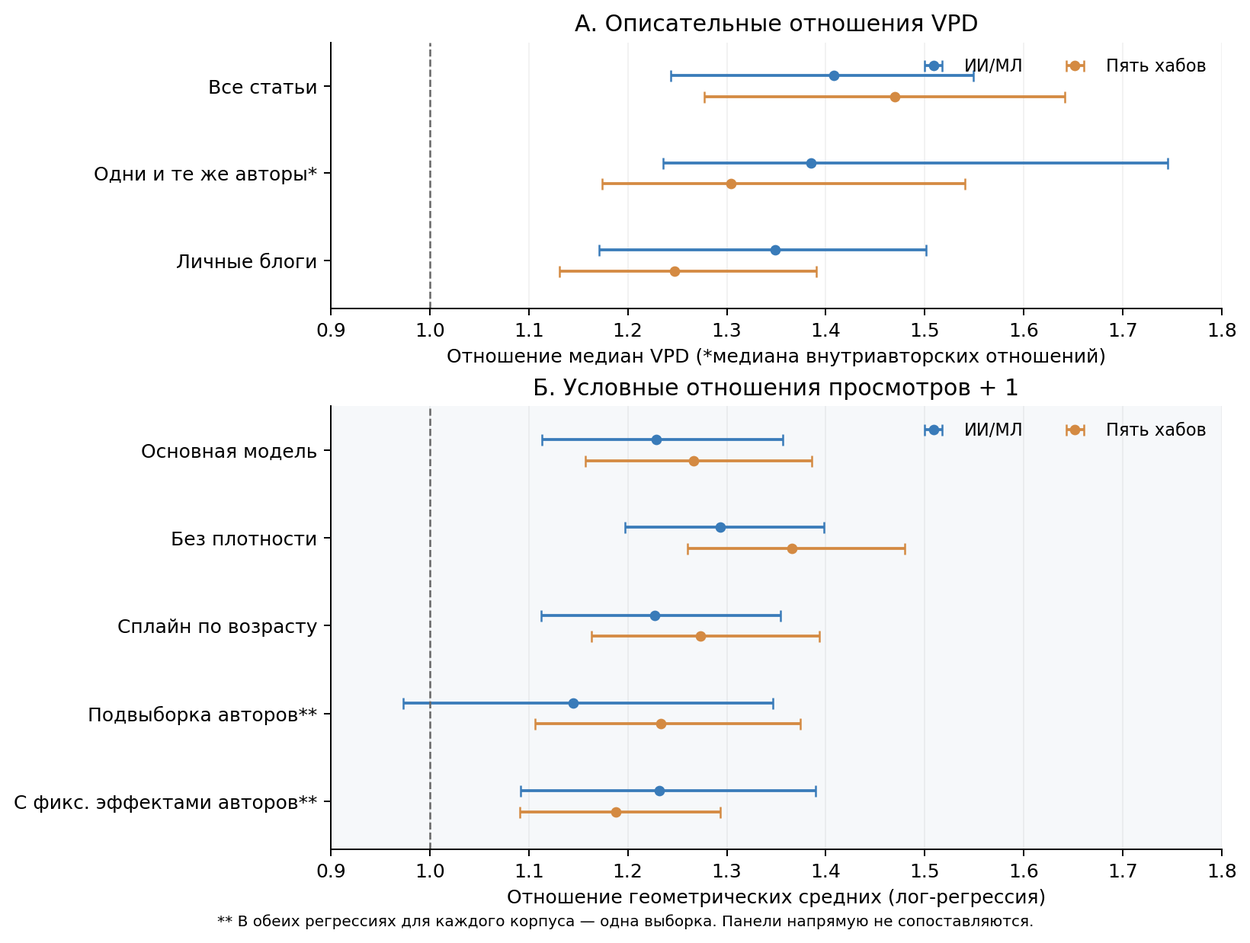
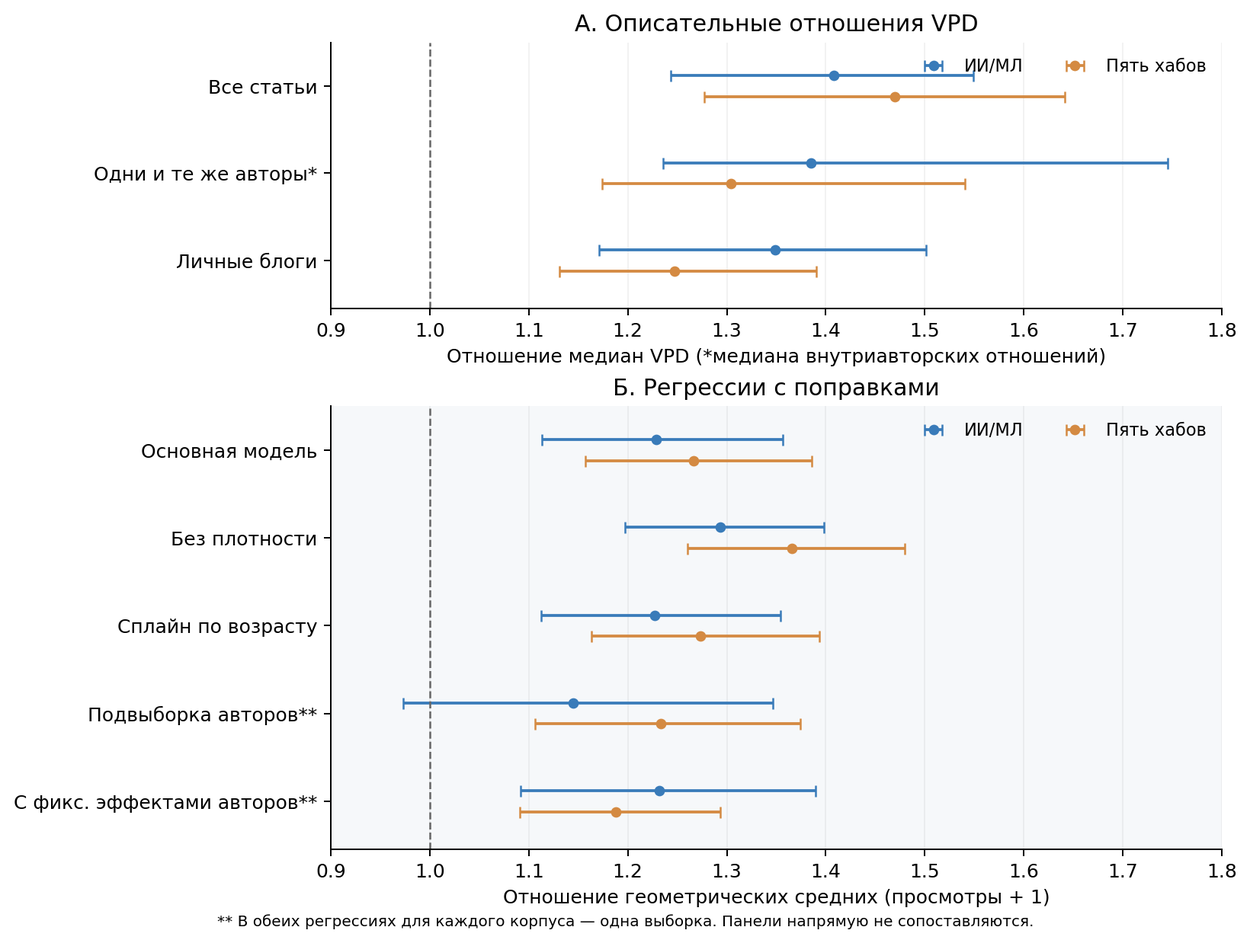
Prepare v1.1.0 publication release with verified illustrations

Changed region(s): [[0.4043, 0.9208, 0.8396, 0.9822], [0.4354, 0.399, 0.7774, 0.4297]]

diff --git a/short_article/article.md b/short_article/article.md
@@ -14,7 +14,7 @@
 
 **TL;DR:** выходные статьи в наших данных набирали больше просмотров. Медиана среднедневных просмотров за время жизни статьи (VPD) выше в 1.4–1.5 раза, оценки отношения просмотров в регрессиях с поправками — около 1.2–1.3. Преимущество сохраняется и при сравнении статей одного автора, хотя примерно 39% выходных статей не превосходят типичную будничную по VPD. По праздникам наблюдается похожая связь. Результативность авторов различается в разы, связь простоты текста с просмотрами слабая. Модели прогноза найти «идеальный час» не помогли.
 
-**Это наблюдения, а не эксперимент.** Если опубликованные в субботу статьи набирали больше просмотров, это ещё не означает, что ваша статья выиграет от переноса со среды на субботу. Полная методология, результаты и код лежат в [репозитории исследования](https://github.com/vadimkaa/habr_analytics/tree/main). Здесь — только самое интересное.
+**Это наблюдения, а не эксперимент.** Если опубликованные в субботу статьи набирали больше просмотров, это ещё не означает, что ваша статья выиграет от переноса со среды на субботу. Полная методология, результаты и код лежат в [репозитории исследования](https://github.com/vadimkaa/habr_analytics/tree/v1.1.0). Здесь — только самое интересное.
 
 ## 1. Сверим часы
 
@@ -32,7 +32,7 @@
 
 VPD здесь лишь описательная метрика. Поэтому я проверял выводы и иначе: сравнивал статьи близкого возраста, их места по просмотрам среди публикаций того же месяца, строил регрессии. Просмотры за одинаковый срок эти методы не заменяют.
 
-Выходными считал субботы и воскресенья, кроме рабочих суббот по производственному календарю. Нерабочие будни анализировал отдельно в разделе о праздниках. Время публикации брал из временных меток в метаданных Хабра; для календарных группировок выбрал московский часовой пояс (да простят меня читатели из Владивостока). Заголовки, хабы и счётчики сняты на момент сбора данных; удалённые и снятые с публикации статьи в выборку не попали, что могло привести к смещению (ошибке выжившего).
+Выходными считал субботы и воскресенья, кроме рабочих суббот по производственному календарю. Праздничные будни входят в будни основного сравнения; отдельно их рассмотрю в разделе 6. Время публикации брал из временных меток в метаданных Хабра; для календарных группировок выбрал московский часовой пояс (да простят меня читатели из Владивостока). Заголовки, хабы и счётчики сняты на момент сбора данных; удалённые и снятые с публикации статьи в выборку не попали, что могло привести к смещению (ошибке выжившего).
 
 ## 2. Суббота наносит ответный удар
 
@@ -88,13 +88,13 @@ VPD здесь лишь описательная метрика. Поэтому 
 
 Ещё одна проверка — регрессия с фиксированными эффектами авторов (в ней постоянные различия между авторами учтены). Для неё взял 2586 статей 360 авторов ИИ/МЛ и 8963 статьи 657 авторов пяти хабов, публиковавшихся и в будни, и в выходные. Учёл также возраст и месяц публикации, хабы, тип блога и плотность публикаций. Оценки отношения просмотров выходных к будням составили 1.23 и 1.19 (ДИ [1.09; 1.39] и [1.09; 1.29] соответственно).
 
-На рисунке 4 собраны результаты разных проверок. Все точечные оценки выше единицы. Любопытно, что в ИИ/МЛ на одной и той же подвыборке учёт фиксированных эффектов авторов повышает оценку с 1.14 (ДИ включает единицу) до 1.23: на этой подвыборке учёт постоянных различий между авторами не уменьшает, а увеличивает оценку. Подробности расчётов — в [полной версии](https://github.com/vadimkaa/habr_analytics/blob/main/article.md#6-выходные-часы-и-автор).
+На рисунке 4 собраны результаты разных проверок. Все точечные оценки выше единицы. Любопытно, что в ИИ/МЛ на одной и той же подвыборке учёт фиксированных эффектов авторов повышает оценку с 1.14 (ДИ включает единицу) до 1.23: постоянные различия между авторами не обязательно завышают оценку календарной связи. Подробности расчётов — в [полной версии](https://github.com/vadimkaa/habr_analytics/blob/v1.1.0/article.md#6-выходные-часы-и-автор).
 
 <img src="../figs/13_weekend_robustness.png" alt="Оценки отношения выходных к будням: описательные сравнения VPD и лог-регрессии с 95% доверительными интервалами." width="100%" />
 
-*Рисунок 4. Проверки устойчивости преимущества выходных. Верхняя и нижняя панели показывают разные статистические показатели; напрямую сопоставлять величины оценок между панелями нельзя. Усы — 95% ДИ с учётом группировки по авторам. В нижних двух строках для каждого корпуса использована одна подвыборка авторов.*
+*Рисунок 4. Проверки устойчивости преимущества выходных. Верхняя и нижняя панели показывают разные статистические показатели; напрямую сопоставлять величины оценок между панелями нельзя. Усы — 95% ДИ с учётом группировки по авторам. В нижних двух строках для каждого корпуса использована одна подвыборка авторов. Сплайн — гибкая поправка на возраст.*
 
-А вот разница между личными и корпоративными блогами оказалась интересной. В пяти хабах после поправок оценка отношения выходных к будням составляет 1.69 (ДИ [1.32; 2.15]) для корпоративных и 1.17 для личных публикаций; различие статистически значимо. При этом корпоративных статей в выходные примерно вчетверо меньше в расчёте на день (528 против 5390 за весь период). В ИИ/МЛ убедительного различия между типами блогов нет.
+А вот разница между личными и корпоративными блогами оказалась интересной. В пяти хабах после поправок оценка отношения выходных к будням составляет 1.69 (ДИ [1.32; 2.15]) для корпоративных и 1.17 для личных публикаций; различие статистически значимо. При этом корпоративных статей в выходные примерно вчетверо меньше в расчёте на день (528 против 5390 за весь период). В ИИ/МЛ убедительного различия между типами блогов нет. Корпоративные публикации выходных могут отличаться по содержанию.
 
 ## 5. Чеширская корреляция
 
@@ -132,7 +132,7 @@ VPD здесь лишь описательная метрика. Поэтому 
 
 Основная оценка — по перцентилям относительно статей, вышедших в пределах семи дней до и после каждой публикации, при тех же контрольных датах. Медианный перцентиль праздничных статей выше контрольных на 8.2 процентного пункта (п.п.) в ИИ/МЛ и 11.7 п.п. в пяти хабах (95% ДИ [4.5; 11.5] и [7.4; 16.2] по эпизодам и контрольным неделям).
 
-При изменении ширины окна от ±3 до ±14 дней разница составляет 5.1–11.0 п.п. в ИИ/МЛ и 10.5–13.2 п.п. в пяти хабах. В узком окне месячная оценка на тех же статьях — 10.5 и 14.4 п.п. Разница зависит не только от состава выборки, но и от метрики; знак сохраняется.
+При изменении ширины окна от ±3 до ±14 дней разница составляет 5.1–11.0 п.п. в ИИ/МЛ и 10.5–13.2 п.п. в пяти хабах. В окне ±3 дня месячная оценка на тех же статьях — 10.5 и 14.4 п.п. Разница зависит не только от состава выборки, но и от метрики; знак сохраняется.
 
 Сравнение по месячным перцентилям охватывает 68 праздничных эпизодов в ИИ/МЛ и всего 7 в пяти хабах: общее окно наблюдений начинается 24 июня 2025 года (в «Информационной безопасности» история короче, вероятно, из-за лимита в 420 страниц). В окне ±7 дней остаются 62 и 7 эпизодов соответственно. Контрольные даты могут относиться к нескольким эпизодам; семь эпизодов ограничивают надёжность ДИ пяти хабов. В праздничные дни статей выходит почти вдвое меньше; доля корпоративных публикаций тоже ниже.
 
@@ -150,7 +150,7 @@ VPD здесь лишь описательная метрика. Поэтому 
 
 Для индексов читаемости из HTML удалялись код, таблицы и формулы; затем считались слова и предложения. Доля кода измерялась отдельно до очистки (по объёму блоков ``<pre>`` относительно исходного текста). Подготовка неидеальна: формулы бывают картинками, а технические термины плохо подходят для подсчёта русских слогов.
 
-Я проверил несколько индексов читаемости на основе длины слов и предложений ([формулы лежат в полной версии](https://github.com/vadimkaa/habr_analytics/blob/main/article.md#8-читаемость-текста)), и они похожи, хотя близкие результаты не означают независимых подтверждений. Просто одна линейка, нарисованная несколькими способами. На рисунке 6 оставил один из индексов.
+Я проверил несколько индексов читаемости на основе длины слов и предложений ([формулы лежат в полной версии](https://github.com/vadimkaa/habr_analytics/blob/v1.1.0/article.md#8-читаемость-текста)), и они похожи, хотя близкие результаты не означают независимых подтверждений. Просто одна линейка, нарисованная несколькими способами. На рисунке 6 оставил один из индексов.
 
 <img src="figures/readability.png" alt="Корреляции формальных характеристик текста с VPD" width="100%" />
 
@@ -160,7 +160,7 @@ VPD здесь лишь описательная метрика. Поэтому 
 
 Самое любопытное — длина предложений почти ни при чём. ДИ её корреляции с VPD включает ноль. Зато доля слов длиной не меньше 10 букв среди русских слов связана с VPD заметнее (−0.24, после поправок −0.20). Чем больше таких слов, тем в среднем ниже VPD. Но длинные слова нередко означают сложную тему, а содержание и его качество я здесь не измерял.
 
-Внутри каждого из семи хабов, из которых собраны корпуса, связь с долей длинных слов тоже отрицательная. При сравнении статей одного автора внутри корпуса корреляции с поправками слабее: 0.17 для ИУФО и −0.15 для доли длинных слов (713 статей, 139 авторов). Для ИУФО в ИИ/МЛ связь почти исчезает (0.06; всего 94 статьи 36 авторов), в пяти хабах сохраняется (0.19). При равном весе авторов обе оценки ещё ближе к нулю, а ДИ включают ноль. Скорректированные корреляции приведены без ДИ; поправка на множественные сравнения описана в [полной версии](https://github.com/vadimkaa/habr_analytics/blob/main/article.md#8-читаемость-текста).
+Внутри каждого из семи хабов, из которых собраны корпуса, связь с долей длинных слов тоже отрицательная. При сравнении статей одного автора внутри корпуса корреляции с поправками слабее: 0.17 для ИУФО и −0.15 для доли длинных слов (713 статей, 139 авторов). Для ИУФО в ИИ/МЛ связь почти исчезает (0.06; всего 94 статьи 36 авторов), в пяти хабах сохраняется (0.19). При равном весе авторов обе оценки ещё ближе к нулю, а ДИ включают ноль. Скорректированные корреляции приведены без ДИ; поправка на множественные сравнения описана в [полной версии](https://github.com/vadimkaa/habr_analytics/blob/v1.1.0/article.md#8-читаемость-текста).
 
 Некрасов советовал писать так, чтобы словам было тесно, а мыслям — просторно. Если понимать это как призыв к употреблению слов покороче (хотя поэт имел в виду другое), то Хабр, судя по этим данным, скорее с ним согласен. Правда, не стоит впадать в крайности и механически заменять, например, «гиперпараметры» на «настройки». Длинное слово может быть точным техническим термином. А короткие предложения не гарантируют ясности. Я сравнивал разные статьи, а не одну и ту же до и после редактуры, поэтому утверждать, что сокращение слов принесёт просмотры, нельзя.
 
@@ -176,7 +176,7 @@ VPD здесь лишь описательная метрика. Поэтому 
 
 Модели не читали содержание статьи. Им были доступны календарные признаки, формальные признаки заголовка, тип блога и ограниченная информация о прошлых публикациях автора. Обучались они на более ранних статьях, проверялись на более поздних.
 
-Сравнил LightGBM и CatBoost ([методика](https://github.com/vadimkaa/habr_analytics/blob/main/experiments/catboost/README.md)). Среди вариантов CatBoost по результатам валидации выбраны модели с квантильной функцией потерь для ИИ/МЛ и с RMSE для пяти хабов (обе на логарифмической шкале). Даже они ранжировали статьи слабо: корреляция внутри месяцев на итоговой проверке — 0.12 и 0.27. Итоговый период я уже видел в ходе исследования, поэтому проверка ретроспективная, не независимая.
+Сравнил LightGBM и CatBoost ([методика](https://github.com/vadimkaa/habr_analytics/blob/v1.1.0/experiments/catboost/README.md)). Среди вариантов CatBoost по результатам валидации выбраны модели с квантильной функцией потерь для ИИ/МЛ и с RMSE для пяти хабов (обе на логарифмической шкале). Даже они ранжировали статьи слабо: корреляция внутри месяцев на итоговой проверке — 0.12 и 0.27. Итоговый период я уже видел в ходе исследования, поэтому проверка ретроспективная, не независимая.
 
 Абсолютные просмотры модели завышали (в медиане в 3.57 и 1.97 раза). Возможная причина — разный срок накопления: медианный возраст статей в финальном обучении и проверке — 1808 и 156 дней в ИИ/МЛ, 341 и 111 в пяти хабах. Будущий срок накопления заранее неизвестен, а счётчиков за фиксированный срок у нас нет.
 
@@ -204,7 +204,7 @@ VPD здесь лишь описательная метрика. Поэтому 
 
 **Маленькие слова — большие последствия.** Регулярное выражение, которым я подсчитывал слова, не учитывало односимвольные «я», «и», «в», «с». После исправления на минуту времени чтения, указанного Хабром, стало приходиться 190.4 слова вместо 174. Разумеется, это не реальная скорость чтения: сайт оценивает время автоматически, а не измеряет, сколько читатели тратят на статью.
 
-Самое прискорбное здесь, что неправильный расчёт часто даёт правдоподобный результат, особенно если этот результат заранее нравится. Как заметил Томас Гексли, великая трагедия науки — уродливый факт, способный погубить прекрасную гипотезу. Поэтому в [репозитории](https://github.com/vadimkaa/habr_analytics/tree/main) лежат не только итоговые числа и графики, но и тесты, описание методики экспериментов, примеры найденных ошибок и проверки воспроизводимости. Полная статья собирается из результатов расчётов; GitHub Actions сверяет текст побайтово.
+Самое прискорбное здесь, что неправильный расчёт часто даёт правдоподобный результат, особенно если этот результат заранее нравится. Как заметил Томас Гексли, великая трагедия науки — уродливый факт, способный погубить прекрасную гипотезу. Поэтому в [репозитории](https://github.com/vadimkaa/habr_analytics/tree/v1.1.0) лежат не только итоговые числа и графики, но и тесты, описание методики экспериментов, примеры найденных ошибок и проверки воспроизводимости. Полная статья собирается из результатов расчётов; GitHub Actions сверяет текст побайтово.
 
 И всё-таки даже после исправлений остаётся вопрос, на который имеющиеся данные ответить не могут: сколько просмотров набрала бы та же статья, если бы мы опубликовали её в другой день?
 
@@ -240,7 +240,7 @@ VPD здесь лишь описательная метрика. Поэтому 
 
 И здесь начинается настоящая кроличья нора. Анализ содержания текстов и изображений может привести к куда более сильным и неожиданным результатам. А может оказаться, что после нескольких месяцев работы мы снова придём к выводу: «Всё страньше и страньше!»
 
-В [полной версии исследования на GitHub](https://github.com/vadimkaa/habr_analytics/blob/main/article.md) можно найти больше подробностей, результатов и открытых вопросов. А заодно попробовать поискать ответы самостоятельно.
+В [полной версии исследования на GitHub](https://github.com/vadimkaa/habr_analytics/blob/v1.1.0/article.md) можно найти больше подробностей, результатов и открытых вопросов. А заодно попробовать поискать ответы самостоятельно.
 
 Если из всей истории оставить одну мысль, то такую: статистика хорошо помогает находить закономерности, но гораздо хуже отвечает на вопрос, что произойдёт, если мы специально попробуем ими воспользоваться.
 

diff --git a/CHANGELOG.md b/CHANGELOG.md
@@ -1,5 +1,18 @@
 # История публичных выпусков
 
+## 1.1.0 — редакция для публикации на Хабре (2026-11-19)
+
+- Включены дополнительные проверки устойчивости: локальные праздничные
+  перцентили, фиксированные эффекты авторов, гибкие возрастные поправки,
+  удельная вовлечённость, плотность, читаемость, возраст выборок CatBoost
+  и оценка мощности эксперимента. Добавлены восемь рисунков и тесты.
+- Добавлены воспроизводимые проверки плотности по объединению двух корпусов
+  и сравнения дневных и вечерних публикаций отдельно в будни и выходные.
+- Уточнены методологические формулировки обеих версий статьи, обновлены
+  рисунки, документация и тесты ключевых чисел короткой версии.
+- Входной срез и результаты обучения CatBoost не менялись. Первый публичный
+  выпуск сохранён; неизменный архив таблиц B2 доступен в [v1.0.0](https://github.com/vadimkaa/habr_analytics/releases/tag/v1.0.0).
+
 ## 1.0.0 — первый публичный выпуск (2026-11-15)
 
 - Опубликован зафиксированный срез данных Хабра от 9–10 ноября 2026 года:
@@ -9,10 +22,6 @@
 - Сохранены результаты и модели эксперимента CatBoost (прогноз популярности
   и исследовательские проверки времени публикации A/B1/B2), а также
   методика экспериментов, тесты и документация по воспроизведению.
-- Включены дополнительные проверки устойчивости: локальные праздничные
-  перцентили, фиксированные эффекты авторов, гибкие возрастные поправки,
-  удельная вовлечённость, плотность, читаемость, возраст выборок CatBoost
-  и оценка мощности эксперимента. Добавлены восемь рисунков и тесты.
 - GitHub Actions проверяет стиль, тесты, воспроизводимость текста статьи
   и численных результатов с допусками на особенности вычислительной среды.
 - Результаты имеют наблюдательный характер и не доказывают причинный эффект

diff --git a/article.md b/article.md
@@ -38,7 +38,7 @@
 
 Всё это наблюдения, а не управляемый эксперимент. Авторы сами выбирают момент публикации, и по выходным может выходить другой тип статей. Поэтому данные не говорят, сколько просмотров вы получите, если перенесёте конкретную статью со вторника на субботу. Почему — в первом разделе.
 
-[Сокращённая версия исследования](short_article/article.md) предназначена для публикации на Хабре. Код, данные и тесты лежат в репозитории [github.com/vadimkaa/habr_analytics](https://github.com/vadimkaa/habr_analytics); все расчёты статьи основаны на сохранённых в нём результатах; что и как воспроизводится — в разделе 16.
+[Сокращённая версия исследования](short_article/article.md) предназначена для публикации на Хабре. Код, данные и тесты лежат в репозитории [github.com/vadimkaa/habr_analytics](https://github.com/vadimkaa/habr_analytics/tree/v1.1.0); все расчёты статьи основаны на сохранённых в нём результатах; что и как воспроизводится — в разделе 16.
 
 Если вас интересуют только практические рекомендации, можно сразу перейти к [разделу 12](#12-что-делать-автору-хабра).
 

diff --git a/article_template.md b/article_template.md
@@ -38,7 +38,7 @@
 
 Всё это наблюдения, а не управляемый эксперимент. Авторы сами выбирают момент публикации, и по выходным может выходить другой тип статей. Поэтому данные не говорят, сколько просмотров вы получите, если перенесёте конкретную статью со вторника на субботу. Почему — в первом разделе.
 
-[Сокращённая версия исследования](short_article/article.md) предназначена для публикации на Хабре. Код, данные и тесты лежат в репозитории [github.com/vadimkaa/habr_analytics](https://github.com/vadimkaa/habr_analytics); все расчёты статьи основаны на сохранённых в нём результатах; что и как воспроизводится — в разделе 16.
+[Сокращённая версия исследования](short_article/article.md) предназначена для публикации на Хабре. Код, данные и тесты лежат в репозитории [github.com/vadimkaa/habr_analytics](https://github.com/vadimkaa/habr_analytics/tree/v1.1.0); все расчёты статьи основаны на сохранённых в нём результатах; что и как воспроизводится — в разделе 16.
 
 Если вас интересуют только практические рекомендации, можно сразу перейти к [разделу 12](#12-что-делать-автору-хабра).
 

diff --git a/README.md b/README.md
@@ -73,6 +73,10 @@ python experiments/catboost/run_experiments.py all
 Порядок воспроизведения результатов разделов 9–10 описан в
 `experiments/catboost/README.md`.
 
+## Версия для цитирования
+
+Редакция статьи для публикации на Хабре — [v1.1.0](https://github.com/vadimkaa/habr_analytics/tree/v1.1.0). Для воспроизведения опубликованных результатов используйте этот тег, а не подвижную ветку `main`. Первый публичный выпуск [v1.0.0](https://github.com/vadimkaa/habr_analytics/releases/tag/v1.0.0) сохранён без изменений, включая архив таблиц B2; модели и результаты B2 в новой редакции не переобучались и не изменились.
+
 ## Сокращённая версия для Хабра
 
 [Сокращённая статья из 12 разделов](short_article/article.md) подготовлена на основе полной версии исследования. Она использует те же архивные расчёты и иллюстрации из `figs/` и `short_article/figures/`, но номера её разделов **не совпадают** с нумерацией полной статьи `article.md`. Для методологии и воспроизводимости ориентируйтесь на полную статью и `docs/`.

diff --git a/LICENSE-DATA.md b/LICENSE-DATA.md
@@ -2,7 +2,7 @@
 
 Код этого репозитория распространяется по лицензии MIT (файл `LICENSE`).
 
-Собственные производные материалы — метаданные корпусов, лексические метрики, результаты в `data/results/` и `experiments/catboost/results/`, таблицы, графики в `figs/` и текст статьи (`article.md`, `article_template.md`) — распространяются по лицензии Creative Commons Attribution 4.0 International (CC BY 4.0): https://creativecommons.org/licenses/by/4.0/legalcode.ru
+Собственные производные материалы — метаданные корпусов, лексические метрики, результаты в `data/results/` и `experiments/catboost/results/`, таблицы, графики в `figs/` и тексты статей (`article.md`, `article_template.md`, `short_article/article.md`) — распространяются по лицензии Creative Commons Attribution 4.0 International (CC BY 4.0): https://creativecommons.org/licenses/by/4.0/legalcode.ru
 
 При повторном использовании достаточно указать автора (vadimkaa) и дать ссылку на репозиторий https://github.com/vadimkaa/habr_analytics.
 

diff --git a/experiments/catboost/README.md b/experiments/catboost/README.md
@@ -75,6 +75,6 @@ python experiments/catboost/run_experiments.py all
 
 Большие таблицы альтернативных слотов B2 для **двух выбранных моделей**
 (ИИ/МЛ и пяти хабов) не входят в основной репозиторий. Они размещаются в
-отдельном ZIP-архиве GitHub Release. Полный набор таблиц также можно
+отдельном ZIP-архиве [первого GitHub Release](https://github.com/vadimkaa/habr_analytics/releases/tag/v1.0.0), который не изменился в v1.1.0. Полный набор таблиц также можно
 пересчитать стадией `policy`. Идентификаторы конфигураций зафиксированы в описании эксперимента: менять их без
 переучёта связанных JSON и моделей нельзя.
